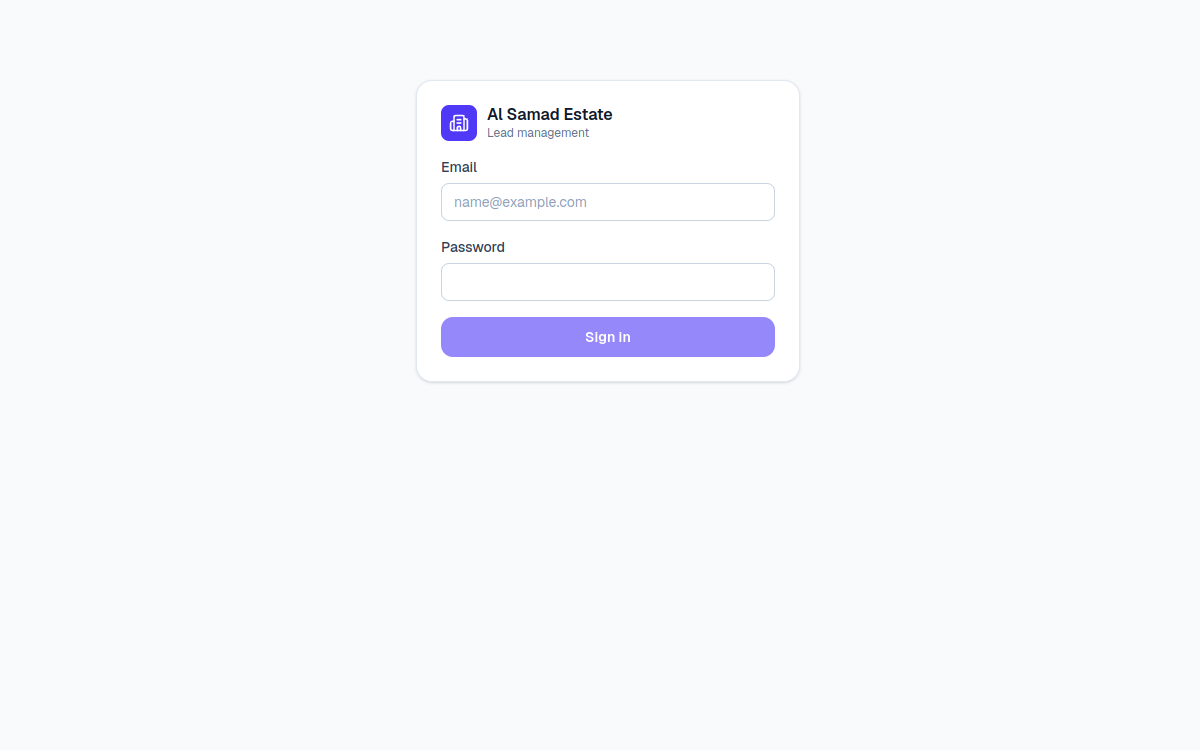
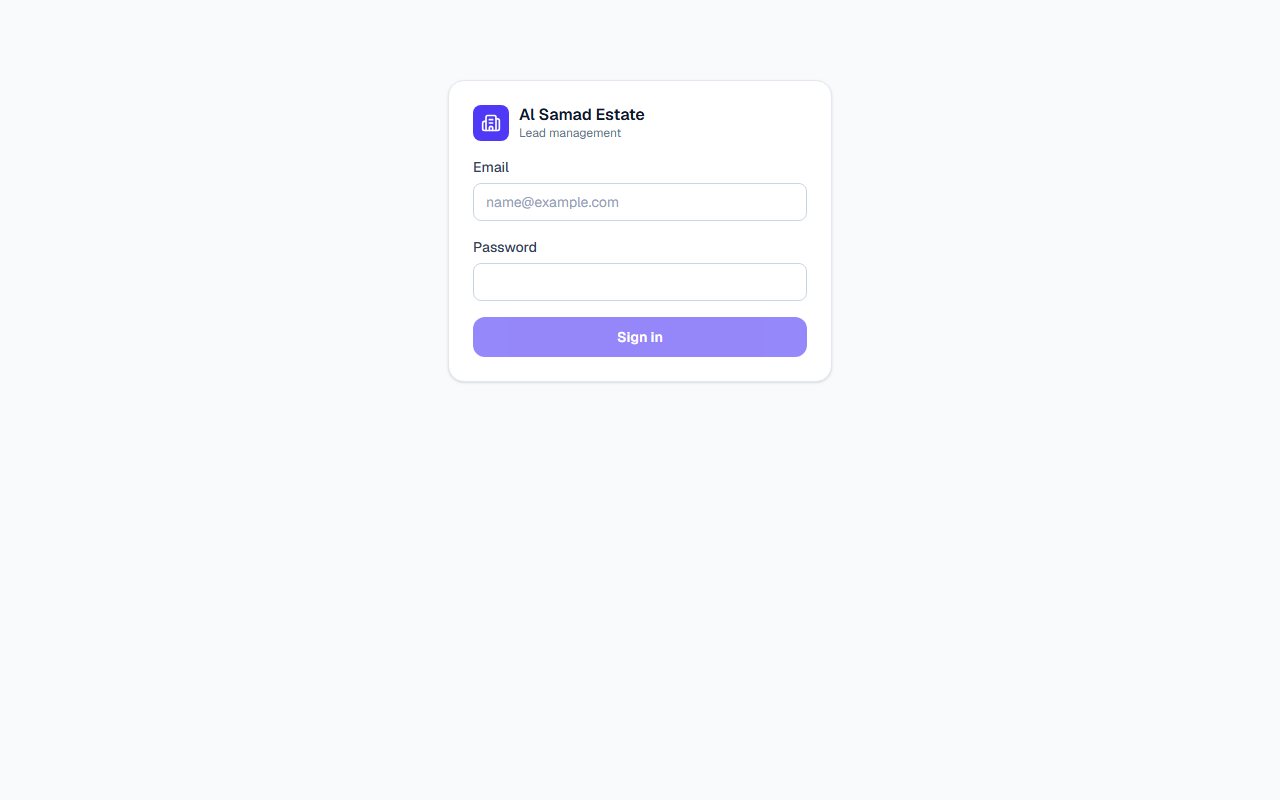
Add GUTECH LMS live demo; add screenshots for LMS and calculator

Changed region(s): [[0.3392, 0.368, 0.6475, 0.4907], [0.3392, 0.1227, 0.5242, 0.3373]]

diff --git a/index.html b/index.html
@@ -3050,7 +3050,9 @@
                 "Web App"
               ],
               "icon": "fa-solid fa-graduation-cap",
-              "repo": "https://github.com/MuhammadSufyan-cyber/LMS-portal-of-GUTECH"
+              "image": "assets/projects/lms-gutech.png",
+            "live": "https://lms-portal-of-gutech.vercel.app/",
+            "repo": "https://github.com/MuhammadSufyan-cyber/LMS-portal-of-GUTECH"
             },
             {
               "title": "Modern Calculator",
@@ -3062,7 +3064,8 @@
                 "JavaScript"
               ],
               "icon": "fa-solid fa-calculator",
-              "repo": "https://github.com/MuhammadSufyan-cyber/My-First-Calculator"
+              "image": "assets/projects/calculator.png",
+            "repo": "https://github.com/MuhammadSufyan-cyber/My-First-Calculator"
             },
             {
               "title": "OOP Banking & Transaction System",
